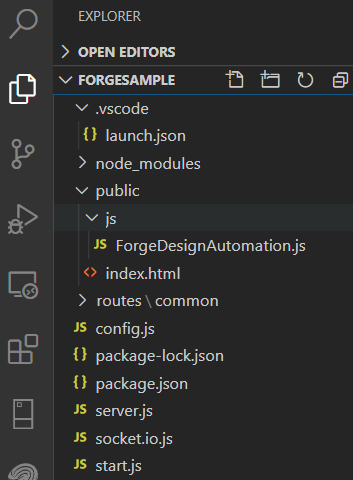
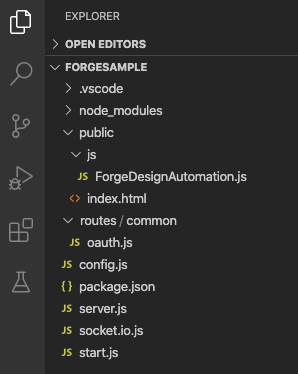
ready to go
fixed images
adjusted links after plugin
remove comments from code

diff --git a/docs/designautomation/appbundle/nodejs.md b/docs/designautomation/appbundle/nodejs.md
@@ -1,19 +1,17 @@
 # Code for creating App Bundle (Node Js)
 
 
-Inside `route/` folder create `DesignAutomation.js` file.
-In this file we will write all the apis.
+Inside `route/` folder create `DesignAutomation.js` file. In this file we will write all the endpoints.
 
 **1. Utils**
 
-Before creating apis, we will add Utils class consisting of all the utility functions like creating design automation sdk instance, uploading file and few more helpfull functions which are used in apis.
+Before creating endpoints, we will add Utils class consisting of all the utility functions like creating design automation SDK instance, uploading file and few more helpfull functions which are used in this sample.
 
 ```javascript
 const _path = require('path');
 const _fs = require('fs');
 const _url = require('url');
 const express = require('express');
-//const http = require('http');
 const http = require('https');
 const formdata = require('form-data');
 const bodyParser = require('body-parser');
@@ -48,8 +46,6 @@ class Utils {
 			let FetchRefresh = async (data) => { // data is undefined in a fetch, but contains the old credentials in a refresh
 				let client = await getClient();
 				let credentials = client.getCredentials();
-				// The line below is for testing
-				//credentials.expires_in = 30; credentials.expires_at = new Date(Date.now() + credentials.expires_in * 1000);
 				return (credentials);
 			};
 			dav3Instance.authManager.authentications['2-legged'].fetchToken = FetchRefresh;
@@ -104,12 +100,7 @@ class Utils {
 	/// Create a new DAv3 client/API with default settings
 	/// </summary>
 	static async dav3API (oauth2) {
-		// There is 2 alternatives to setup an API instance, providing the access_token directly
-		// let apiClient2 = new dav3.AutodeskForgeDesignAutomationClient(/*config.client*/);
-		// apiClient2.authManager.authentications['2-legged'].accessToken = oauth2.access_token;
-		//return (new dav3.AutodeskForgeDesignAutomationApi(apiClient));
-
-		// Or use the Auto-Refresh feature
+		// Auto-Refresh feature
 		let apiClient = await Utils.Instance();
 		return (new dav3.AutodeskForgeDesignAutomationApi(apiClient));
 	}
@@ -199,7 +190,7 @@ class Utils {
 
 **2. App Bundle**
 
-Before creating activity, we need to define app bundle with plugin and selecting the appropriate engine, copy the following apis after the utils class, for managing these tasks:
+Before creating activity, we need to define app bundle with plugin and selecting the appropriate engine. Copy & paste the following endpoint after the utils class:
 
 ```javascript
 /// <summary>
@@ -260,13 +251,6 @@ router.post('/forge/designautomation/appbundles', async /*CreateAppBundle*/ (req
 	let newAppVersion = null;
 	const qualifiedAppBundleId = `${Utils.NickName}.${appBundleName}+${Utils.Alias}`;
 	if (!appBundles.data.includes(qualifiedAppBundleId)) {
-		// create an appbundle (version 1)
-		// const appBundleSpec = {
-		// 		package: appBundleName,
-		// 		engine: engineName,
-		// 		id: appBundleName,
-		// 		description: `Description for ${appBundleName}`
-		// 	};
 		const appBundleSpec = dav3.AppBundle.constructFromObject({
 			package: appBundleName,
 			engine: engineName,
@@ -283,7 +267,7 @@ router.post('/forge/designautomation/appbundles', async /*CreateAppBundle*/ (req
 		}
 
 		// create alias pointing to v1
-		const aliasSpec = //dav3.Alias.constructFromObject({
+		const aliasSpec = 
 		{
 			id: Utils.Alias,
 			version: 1
@@ -298,7 +282,7 @@ router.post('/forge/designautomation/appbundles', async /*CreateAppBundle*/ (req
 		}
 	} else {
 		// create new version
-		const appBundleSpec = //dav3.AppBundle.constructFromObject({
+		const appBundleSpec = 
 		{
 			engine: engineName,
 			description: appBundleName
@@ -313,7 +297,7 @@ router.post('/forge/designautomation/appbundles', async /*CreateAppBundle*/ (req
 		}
 
 		// update alias pointing to v+1
-		const aliasSpec = //dav3.AliasPatch.constructFromObject({
+		const aliasSpec = 
 		{
 			version: newAppVersion.Version
 		};
@@ -329,16 +313,6 @@ router.post('/forge/designautomation/appbundles', async /*CreateAppBundle*/ (req
 
 	// upload the zip with .bundle
 	try {
-		// curl https://bucketname.s3.amazonaws.com/
-		// -F key = apps/myApp/myfile.zip
-		// -F content-type = application/octet-stream
-		// -F policy = eyJleHBpcmF0aW9uIjoiMjAxOC0wNi0yMVQxMzo...(trimmed)
-		// -F x-amz-signature = 800e52d73579387757e1c1cd88762...(trimmed)
-		// -F x-amz-credential = AKIAIOSFODNN7EXAMPLE/20180621/us-west-2/s3/aws4_request/
-		// -F x-amz-algorithm = AWS4-HMAC-SHA256
-		// -F x-amz-date = 20180621T091656Z
-		// -F file=@E:myfile.zip
-		//
 		// The ‘file’ field must be at the end, all fields after ‘file’ will be ignored.
 		await Utils.uploadFormDataWithFile(
 			packageZipPath,

diff --git a/docs/environment/setup/nodejs_2legged_da.md b/docs/environment/setup/nodejs_2legged_da.md
@@ -4,7 +4,7 @@ Create a folder on your machine, do not use spaces and avoid special chars. For 
 
 Open [Visual Code](https://code.visualstudio.com/download), then go to menu **File** and select **Open** (MacOS) or **Open Folder** (Windows) and select the newly created folder. 
 
-Now we need the terminal, go to menu **View** >> **Terminal**. A window should appear on the bottom. Type the following command and follow the steps. For consistency with other Forge samples, when prompted for **entry point:**, use **start.js**.
+Now we need the terminal, go to menu **View** >> **Terminal**. A window should appear on the bottom. Type the following command and follow the steps, you can safely accept the default suggestion, except **entry point:**, use **start.js** (which is used on most of Forge samples).
 
 ```
 npm init
@@ -50,8 +50,8 @@ Finally open the **package.json** and, inside `"scripts"`, add `"start": "node s
     "body-parser": "^1.19.0",
     "cookie-session": "^1.4.0",
     "express": "^4.17.1",
-    "forge-apis": "^0.4.8",
-    "form-data": "^2.5.1",
+    "forge-apis": "^0.7.3",
+    "form-data": "^3.0.0",
     "multer": "^1.4.2",
     "socket.io": "^2.3.0"
   }
@@ -103,13 +103,13 @@ This file indicates to Visual Studio Code how we should run our project. Go to m
 
 ## start.js
 
-In the root folder, create a `start.js` file with:
+This file starts an **express** server. In the root folder, create a `start.js` file with:
 
 !> File names are case-sensitive for some deployments, like **Heroku**. For this tutorial, let's use lower-case.
 
 ```javascript
-const app = require('./routes/server');
-const socketIO = require('./routes/socket.io')(app);
+const app = require('./server');
+const socketIO = require('./socket.io')(app);
 
 let server = socketIO.http.listen(app.get('port'), () => {
     console.log(`Server listening on port ${app.get('port')}`);
@@ -123,11 +123,9 @@ server.on('error', (err) => {
 }) ;
 ```
 
-This file starts an **express** server.
-
 ## server.js
 
-In the root folder, create a file named `server.js` with the following content:
+This file serves static files (e.g. `html`), and routes API requests. In the root folder, create a file named `server.js` with the following content:
 
 ```javascript
 const _path = require('path');
@@ -154,37 +152,11 @@ app.set('port', process.env.PORT || 3000);
 module.exports = app;
 ```
 
-This file serves static files (e.g. `html`), and routes API requests.
-
 ## socket.io.js
 
 In the root folder, create a file named `socket.io.js` with the following content:
 
 ```javascript
-//
-// Copyright (c) 2019 Autodesk, Inc.
-//
-// Permission is hereby granted, free of charge, to any person obtaining a copy
-// of this software and associated documentation files (the "Software"), to deal
-// in the Software without restriction, including without limitation the rights
-// to use, copy, modify, merge, publish, distribute, sublicense, and/or sell
-// copies of the Software, and to permit persons to whom the Software is
-// furnished to do so, subject to the following conditions:
-//
-// The above copyright notice and this permission notice shall be included in all
-// copies or substantial portions of the Software.
-//
-// THE SOFTWARE IS PROVIDED "AS IS", WITHOUT WARRANTY OF ANY KIND, EXPRESS OR
-// IMPLIED, INCLUDING BUT NOT LIMITED TO THE WARRANTIES OF MERCHANTABILITY,
-// FITNESS FOR A PARTICULAR PURPOSE AND NONINFRINGEMENT. IN NO EVENT SHALL THE
-// AUTHORS OR COPYRIGHT HOLDERS BE LIABLE FOR ANY CLAIM, DAMAGES OR OTHER
-// LIABILITY, WHETHER IN AN ACTION OF CONTRACT, TORT OR OTHERWISE, ARISING FROM,
-// OUT OF OR IN CONNECTION WITH THE SOFTWARE OR THE USE OR OTHER DEALINGS IN THE
-// SOFTWARE.
-//
-
-/*jshint esversion: 8 */
-
 module.exports =(app) => {
 
 	const http = require('http').Server(app);
@@ -207,7 +179,6 @@ module.exports =(app) => {
 		http: http,
 		io: io
 	});
-
 };
 ```
 
@@ -245,8 +216,8 @@ module.exports = {
 };
 ```
 
-We are defining our ENV variables here. At the time of running our Express server, the values of these variables will be use to connect to the different Autodesk Forge services we will need.
-
+We are using the environment variables here. At the time of running our Express server, the values of these variables will be used to connect to Autodesk Forge.
+com
 ## routes/common/oauth.js
 
 Now create a `common` subfolder in the `routes` folder, and prepare a `routes/common/oauth.js` file that will actually request

diff --git a/docs/designautomation/workitem/nodejs.md b/docs/designautomation/workitem/nodejs.md
@@ -1,10 +1,10 @@
 # Execute Workitem (Node.js)
 
-The following apis should be added to the `DesignAutomation` js file.
+The following apis should be added to the `DesignAutomation` js file before the last line `module.exports = router;`
 
 **1. StartWorkitem**
 
-This is where we actually start the Design Automation. This api also uploads the input file to an OSS Bucket and define that the output should be saved at the same bucket. To help you identify the files, both input and output uses the same original file name, but with a suffix (`input` or `output`) plus a time stamp.
+This is where we actually start the Design Automation. This endpoint also uploads the input file to an OSS Bucket and define that the output should be saved at the same bucket. To help you identify the files, both input and output uses the same original file name, but with a suffix (`input` or `output`) plus a time stamp. 
 
 ```javascript
 /// <summary>
@@ -25,7 +25,6 @@ router.post('/forge/designautomation/workitems', multer({
 	// save the file on the server
 	const ContentRootPath = _path.resolve(_path.join(__dirname, '../..'));
 	const fileSavePath = _path.join(ContentRootPath, _path.basename(req.file.originalname));
-	//const stream = _fs.createReasStream(fileSavePath, FileMode.Create)) await input.inputFile.CopyToAsync(stream);
 
 	// upload file to OSS Bucket
 	// 1. ensure bucket existis
@@ -67,16 +66,6 @@ router.post('/forge/designautomation/workitems', multer({
 		url: "data:application/json, " + JSON.stringify(inputJson).replace(/"/g, "'")
 	};
 	// 3. output file
-	// const outputFileNameOSS = `${new Date().toISOString().replace (/[-T:\.Z]/gm, '').substring(0, 14)}_output_${_path.basename(req.file.originalname)}`; // avoid overriding
-	// const outputFileArgument = {
-	// 	url: `https://developer.api.autodesk.com/oss/v2/buckets/${bucketKey}/objects/${outputFileNameOSS}`,
-	// 	verb: dav3.Verb.put,
-	// 	headers: {
-	// 		Authorization: `Bearer ${req.oauth_token.access_token}`
-	// 	}
-	// };
-
-	// Better to use a presigned url to avoid the token to expire
 	const outputFileNameOSS = `${new Date().toISOString().replace(/[-T:\.Z]/gm, '').substring(0, 14)}_output_${_path.basename(req.file.originalname)}`; // avoid overriding
 	let signedUrl = null;
 	try {
@@ -100,7 +89,6 @@ router.post('/forge/designautomation/workitems', multer({
 		}));
 	}
 	const outputFileArgument = {
-		//url: `https://developer.api.autodesk.com/oss/v2/buckets/${bucketKey}/objects/${outputFileNameOSS}`,
 		url: signedUrl,
 		headers: {
 			Authorization: '',
@@ -163,7 +151,6 @@ router.post('/forge/callback/designautomation', async /*OnCallback*/ (req, res) 
 		http.get(
 			bodyJson.reportUrl,
 			response => {
-				//socketIO.emit('onComplete', response);
 				response.setEncoding('utf8');
 				let rawData = '';
 				response.on('data', (chunk) => {
@@ -174,7 +161,6 @@ router.post('/forge/callback/designautomation', async /*OnCallback*/ (req, res) 
 				});
 			}
 		);
-		//socketIO.emit('downloadReport', bodyJson.reportUrl);
 
 		const objectsApi = new ForgeAPI.ObjectsApi();
 		const bucketKey = Utils.NickName.toLowerCase() + '-designautomation';

diff --git a/docs/designautomation/appbundle/README.md b/docs/designautomation/appbundle/README.md
@@ -10,7 +10,7 @@ At this section we will create a basic plugin that update `width` and `height` p
 
 ### Additional prerequisites 
 
-For the next session you can use the pre-build plugin. If you decide to build it, you will need:
+For the next session you can use the pre-build plugin. Or if you decide to build it, you will need:
 
 - **Visual Studio**: Visual Studio 2017 or newer is required, please visit [this link](https://visualstudio.microsoft.com/vs/).
 
@@ -19,7 +19,5 @@ For the next session you can use the pre-build plugin. If you decide to build it
 ***
 
 For the next step, choose the **Engine**, which is the Autodesk application where you plugin will run. You'll need the respective application installed in order to compile, debug and test locally.
-
-> Checkpoint: at this point you should have a Visual Studio solution with 1 project (forgesample webapp).
 
 Choose the engine: [AutoCAD](/designautomation/appbundle/engines/autocad) | [Inventor](/designautomation/appbundle/engines/inventor) | [Revit](/designautomation/appbundle/engines/revit) | [3ds Max](/designautomation/appbundle/engines/max)

diff --git a/docs/designautomation/activity/nodejs.md b/docs/designautomation/activity/nodejs.md
@@ -2,7 +2,7 @@
 
 **Activity**
 
-Now we will write apis for creating new activity and getting the existing activities, copy the following apis into `DesignAutomation.js` file before the last line `module.exports = router;`:
+Now we will write endpoints for creating new activity and getting the existing activities, copy the following code into `DesignAutomation.js` file before the last line `module.exports = router;`:
 
 ```javascript
 /// <summary>
@@ -33,7 +33,6 @@ router.post('/forge/designautomation/activities', async /*CreateActivity*/ (req,
 	const qualifiedActivityId = `${Utils.NickName}.${activityName}+${Utils.Alias}`;
 	if (!activities.data.includes(qualifiedActivityId)) {
 		// define the activity
-		// ToDo: parametrize for different engines...
 		const engineAttributes = Utils.EngineAttributes(engineName);
 		const commandLine = engineAttributes.commandLine.replace('{0}', appBundleName);
 		const activitySpec = {

diff --git a/docs/environment/setup/2legged_da.md b/docs/environment/setup/2legged_da.md
@@ -14,8 +14,8 @@ After download, unzip it. Open the Windows **Command Line Prompt** (CMD) and nav
 
 ![](/_media/designautomation/ngrok.gif)
 
-> If running on non-Windows (e.g. MacOS), open the **Terminal** instead and follow the same steps.
+> If running on non-Windows (e.g. MacOS), open the **Terminal** instead and follow the same steps, but you need to prefix with `./`
 
 !> **Warning**: `ngrok` exposes your localhost server to the web while it is in use. Be sure to turn it off when your testing it done. Do not use this outside development environment
 
-Setup Project, choose your language: [Node.js](environment/setup/nodejs_2legged_da) | [.NET Core](environment/setup/netcore_da)
+Setup Project, choose your language: [Node.js](environment/setup/nodejs_da) | [.NET Core](environment/setup/netcore_da)

diff --git a/docs/designautomation/appbundle/engines/revit.md b/docs/designautomation/appbundle/engines/revit.md
@@ -191,4 +191,4 @@ If you build the `UpdateRVTParam` project now you should see something like this
 
 !> If the build output shows more than **2 folder, 5 files** copied, please go back and ensure **RevitAPI** reference is set to **Copy Local**:**False**. You may need to remove all DLLs from `UpdateRVTParam.bundle/Contents/` folder
 
-Next: [Upload the plugin](designautomation/appbundle/netcore)
+Next: [Upload the plugin](designautomation/appbundle/common)

diff --git a/docs/designautomation/appbundle/engines/max.md b/docs/designautomation/appbundle/engines/max.md
@@ -263,4 +263,4 @@ To execute this locally, we could do test a a command-line prompt with something
 ```
 Later in this tutorial you will see these same instructions being sent to the 3ds Max Design Automation engine.
 
-Next: [Upload the plugin](designautomation/appbundle/netcore)
+Next: [Upload the plugin](designautomation/appbundle/common)

diff --git a/docs/designautomation/appbundle/engines/inventor.md b/docs/designautomation/appbundle/engines/inventor.md
@@ -134,4 +134,4 @@ If you build the `UpdateIPTParam` project now you should see something like this
 
 ![](_media/designautomation/inventor/build_output.png)
 
-Next: [Upload the plugin](designautomation/appbundle/netcore)
+Next: [Upload the plugin](designautomation/appbundle/common)

diff --git a/docs/designautomation/appbundle/engines/autocad.md b/docs/designautomation/appbundle/engines/autocad.md
@@ -181,4 +181,4 @@ If you build the `UpdateDWGParam` project now you should see something like this
 
 ![](_media/designautomation/autocad/build_output.png)
 
-Next: [Upload the plugin](designautomation/appbundle/netcore)
+Next: [Upload the plugin](designautomation/appbundle/common)
